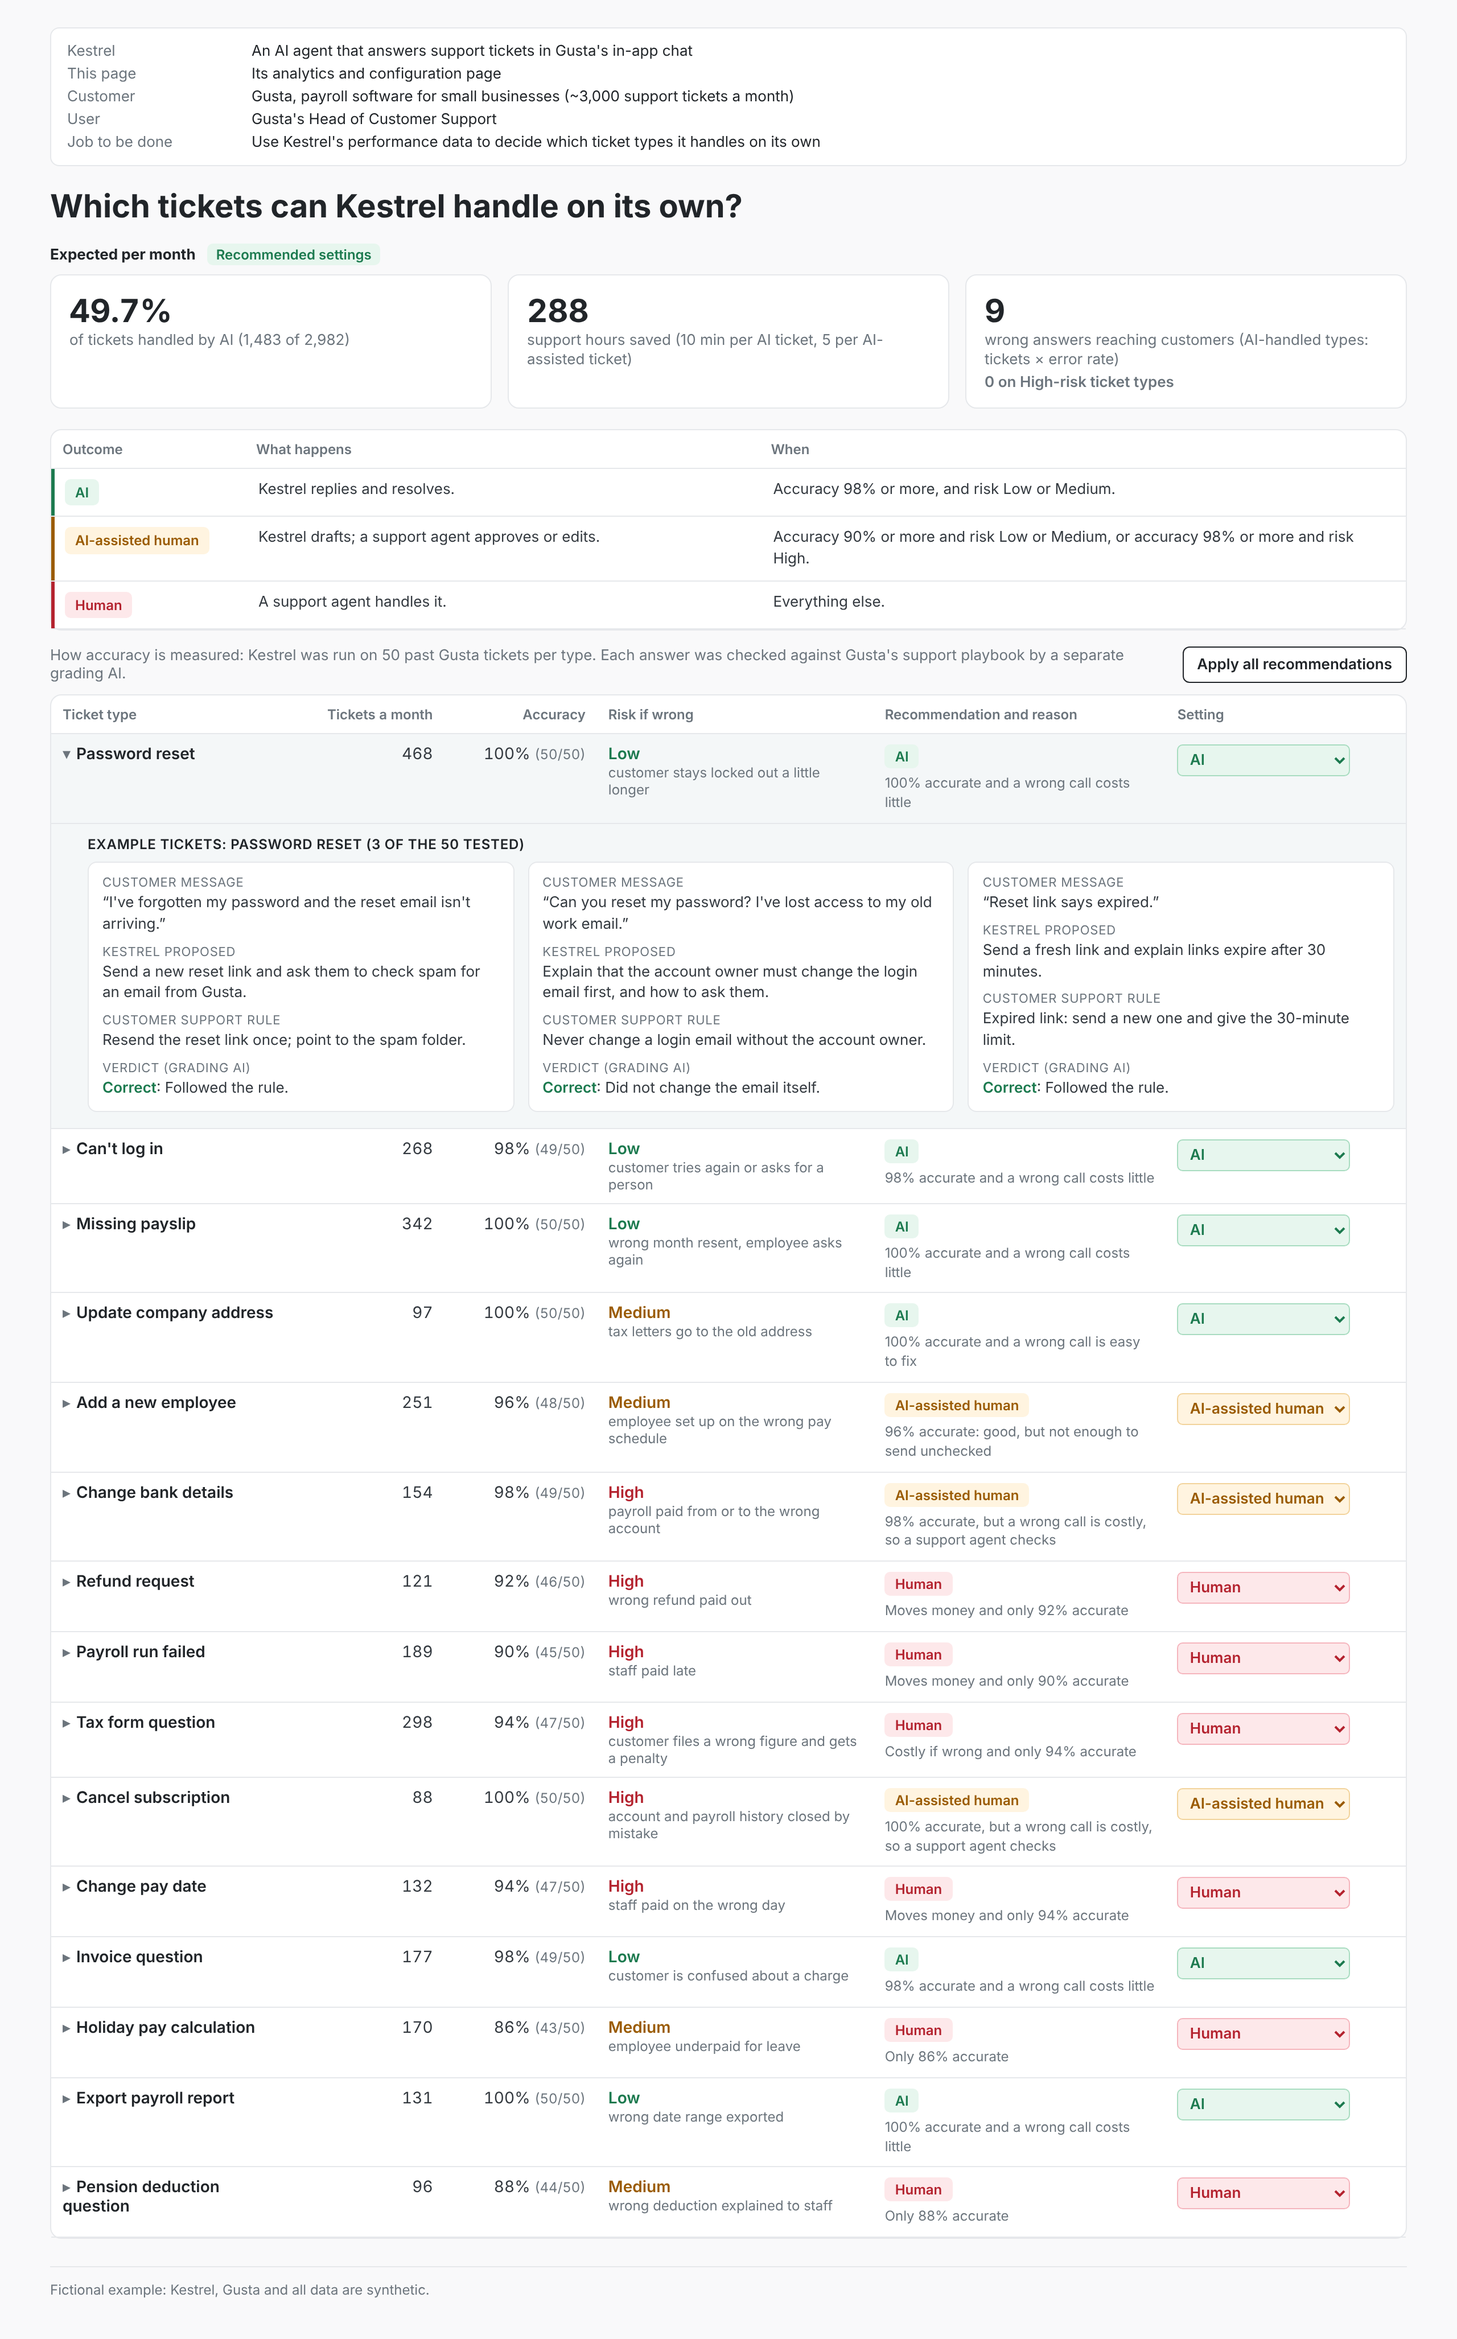
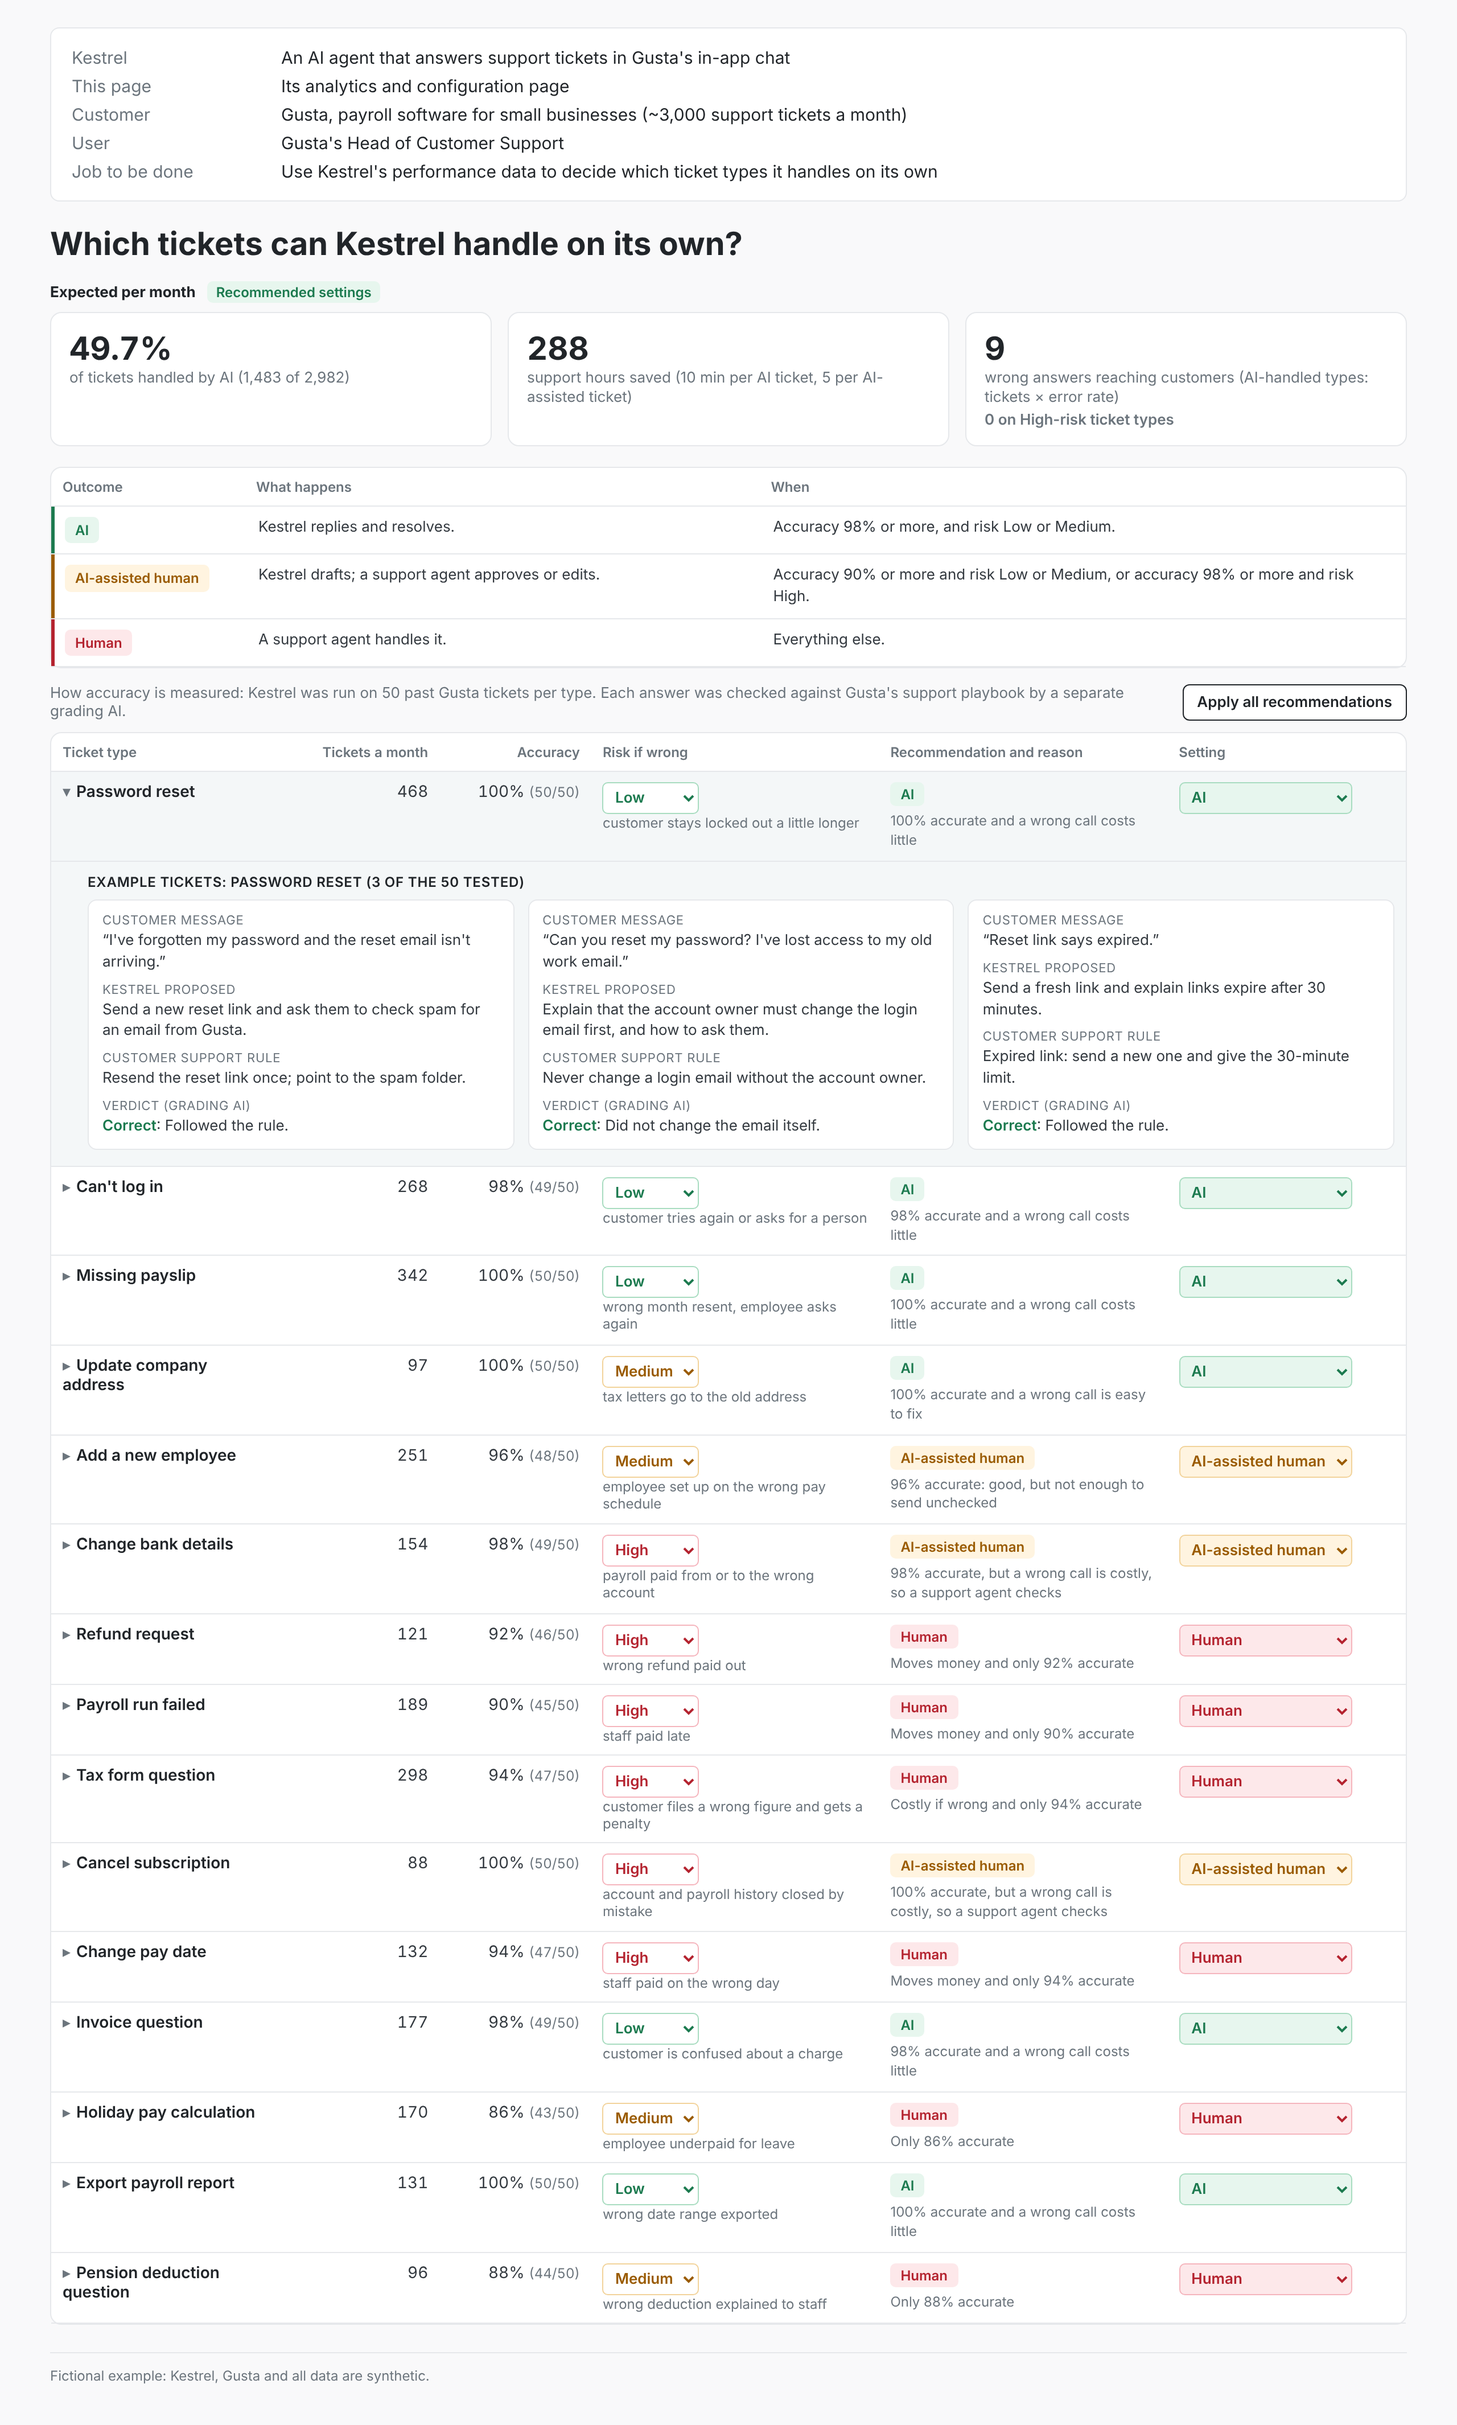
Adjustable risk per ticket type; larger header box
Claude-Session: https://claude.ai/code/session_016JoguXTxkWcj5knaYbAtMZ

diff --git a/examples/kestrel/run/build/mvp.html b/examples/kestrel/run/build/mvp.html
@@ -7,7 +7,7 @@
 *{box-sizing:border-box}
 body{margin:0;background:var(--bg);color:var(--text);font-family:Inter,Arial,sans-serif;font-size:14px}
 main{max-width:1240px;margin:0 auto;padding:24px 24px 36px}
-.header{display:grid;grid-template-columns:150px 1fr;gap:4px 12px;font-size:13px;margin:0 0 18px;padding:12px 14px;background:#fff;border:1px solid var(--line);border-radius:8px}
+.header{display:grid;grid-template-columns:170px 1fr;gap:6px 14px;font-size:15px;margin:0 0 20px;padding:16px 18px;background:#fff;border:1px solid var(--line);border-radius:8px}
 .header dt{color:var(--mute)}.header dd{margin:0;color:var(--head)}
 h1{font-size:28px;color:var(--head);margin:0 0 16px}
 .dash-head{display:flex;align-items:center;gap:10px;margin:0 0 8px;font-size:13px;color:var(--mute)}
@@ -42,6 +42,8 @@ tr.row{cursor:pointer}tr.row:hover{background:#f6f8f9}tr.row.open{background:var
 select{font:inherit;font-size:13px;font-weight:600;border:1px solid var(--line);border-radius:5px;padding:4px 6px;background:#fff;color:var(--head);cursor:pointer}
 select.s-resolve{background:var(--ai-bg);color:var(--ai);border-color:#a8dcc0}select.s-draft{background:var(--mix-bg);color:var(--mix);border-color:#f2d39b}select.s-human{background:var(--hum-bg);color:var(--hum);border-color:#f5b5bd}
 select option{background:#fff;color:var(--head);font-weight:400}
+select.rk-Low{color:var(--ai);border-color:#a8dcc0}select.rk-Medium{color:var(--mix);border-color:#f2d39b}select.rk-High{color:var(--hum);border-color:#f5b5bd}
+.adjusted{font-size:12px;color:var(--mix);font-weight:600;margin-top:5px}
 .tag{display:inline-block;font-size:11px;font-weight:600;padding:2px 6px;border-radius:4px;background:#eef0f2;color:var(--mute);margin-top:4px}
 .warn{font-size:12px;color:var(--hum);margin-top:4px}
 tr.detail td{background:var(--open);padding:2px 10px 14px 32px}
@@ -91,7 +93,8 @@ if (typeof module !== 'undefined') module.exports = {accuracy, recommend, summar
 
 <script>
 const LABEL = {resolve: 'AI', draft: 'AI-assisted human', human: 'Human'};
-let D, settings = [], open = new Set([0]);
+let D, settings = [], risks = [], open = new Set([0]);
+const eff = () => D.types.map((t, i) => Object.assign({}, t, {risk: risks[i]}));
 const fmt = v => Math.round(v).toLocaleString('en-GB');
 function staticParts(){
   const K = D.product, G = D.customer, n = D.test_tickets_per_type;
@@ -111,8 +114,8 @@ function staticParts(){
   document.getElementById('footer').textContent = `Fictional example: ${K}, ${G} and all data are synthetic.`;
 }
 function render(){
-  const n = D.test_tickets_per_type, s = summary(D, settings), K = D.product;
-  const recSet = D.types.map(t => recommend(t, n)), r = summary(D, recSet), overrides = settings.filter((m, i) => m !== recSet[i]).length;
+  const n = D.test_tickets_per_type, E = eff(), DE = Object.assign({}, D, {types: E}), s = summary(DE, settings), K = D.product;
+  const recSet = E.map(t => recommend(t, n)), r = summary(DE, recSet), overrides = settings.filter((m, i) => m !== recSet[i]).length;
   const delta = (now, base, unit, goodUp) => { const d = now - base; if (Math.abs(d) < 0.05) return '';
     const good = goodUp ? d > 0 : d < 0; return `<div class="delta ${good ? 'd-up' : 'd-bad'}">${d > 0 ? '+' : '−'}${unit(Math.abs(d))} vs recommended</div>`; };
   document.getElementById('dashHead').innerHTML = `<b>Expected per month</b><span id="state" class="state ${overrides ? 'state-over">' + overrides + (overrides === 1 ? ' override' : ' overrides') : 'state-rec">Recommended settings'}</span>`;
@@ -121,16 +124,16 @@ function render(){
     <div class="card"><b id="sumHours">${fmt(s.hours)}</b><span>support hours saved (${D.minutes_ai} min per AI ticket, ${D.minutes_assisted} per AI-assisted ticket)</span>${delta(s.hours, r.hours, v => fmt(v) + ' hours', true)}</div>
     <div class="card"><b id="sumWrong">${fmt(s.wrong)}</b><span>wrong answers reaching customers (AI-handled types: tickets × error rate)</span>
       <span id="sumHigh" class="hi ${s.wrongHigh >= 0.5 ? 'hi-bad">' + fmt(s.wrongHigh) : 'hi-ok">0'} on High-risk ticket types</span>${delta(s.wrong, r.wrong, v => fmt(v), false)}</div>`;
-  const rows = D.types.map((t, i) => {
-    const rec = recommend(t, n), set = settings[i], isOpen = open.has(i), p = Math.round(accuracy(t, n) * 100);
+  const rows = E.map((t, i) => {
+    const rec = recommend(t, n), set = settings[i], isOpen = open.has(i), p = Math.round(accuracy(t, n) * 100), adj = t.risk !== D.types[i].risk;
     const over = set !== rec ? `<div><span class="tag">Overridden</span></div>` : '';
     const warn = aboveRecommended(t, n, set) ? `<div class="warn">Above recommended: ${p}% accurate on a ${t.risk}-risk type</div>` : '';
     const main = `<tr class="row${isOpen ? ' open' : ''}" data-i="${i}" onclick="toggle(${i})">
       <td><span class="chev">${isOpen ? '▾' : '▸'}</span><span class="name">${t.name}</span></td>
       <td class="n">${fmt(t.tickets)}</td>
       <td class="n">${p}% <span class="sub">(${t.correct}/${n})</span></td>
-      <td><span class="risk risk-${t.risk}">${t.risk}</span><div class="sub">${t.risk_example.replace(/^\w+: /, '')}</div></td>
-      <td><span class="chip c-${rec}">${LABEL[rec]}</span><div class="reason">${t.reason}</div></td>
+      <td onclick="event.stopPropagation()"><select class="rk-${t.risk}" data-risk="${i}" onchange="setRisk(${i}, this.value)">${['Low', 'Medium', 'High'].map(v => `<option${v === t.risk ? ' selected' : ''}>${v}</option>`).join('')}</select>${adj ? '' : `<div class="sub">${t.risk_example.replace(/^\w+: /, '')}</div>`}</td>
+      <td><span class="chip c-${rec}">${LABEL[rec]}</span>${adj ? '<div class="adjusted">Adjusted by user</div>' : `<div class="reason">${t.reason}</div>`}</td>
       <td onclick="event.stopPropagation()"><select class="s-${set}" data-i="${i}" onchange="setMode(${i}, this.value)">${['resolve', 'draft', 'human'].map(m => `<option value="${m}"${m === set ? ' selected' : ''}>${LABEL[m]}</option>`).join('')}</select>${over}${warn}</td>
 </tr>`;
     const det = isOpen ? `<tr class="detail"><td colspan="6"><div class="exhead">Example tickets: ${t.name} (3 of the ${n} tested)</div><div class="exgrid">${t.examples.map(e => `<div class="exbox">
@@ -143,8 +146,11 @@ function render(){
 }
 function toggle(i){ open.has(i) ? open.delete(i) : open.add(i); render(); }
 function setMode(i, m){ settings[i] = m; render(); }
-function applyAll(){ settings = D.types.map(t => recommend(t, D.test_tickets_per_type)); render(); }
-fetch('../data/ticket_types.json').then(r => r.json()).then(d => { D = d; staticParts(); applyAll(); document.body.dataset.ready = '1'; })
+// changing risk re-runs the recommendation; the setting follows it only if it was still on the old recommendation
+function setRisk(i, v){ const n = D.test_tickets_per_type, before = recommend(eff()[i], n); risks[i] = v;
+  if (settings[i] === before) settings[i] = recommend(eff()[i], n); render(); }
+function applyAll(){ settings = eff().map(t => recommend(t, D.test_tickets_per_type)); render(); }
+fetch('../data/ticket_types.json').then(r => r.json()).then(d => { D = d; risks = D.types.map(t => t.risk); staticParts(); applyAll(); document.body.dataset.ready = '1'; })
   .catch(() => { document.querySelector('main').insertAdjacentHTML('afterbegin', '<p class="measure"><b>Couldn\'t load the data.</b> Open this page through a web server, not by double-clicking the file.</p>'); });
 </script>
 </body></html>

diff --git a/examples/kestrel/run/build/check_mvp.js b/examples/kestrel/run/build/check_mvp.js
@@ -19,7 +19,7 @@ const srv = http.createServer((q, r) => { const f = path.join(root, decodeURICom
   const det = await txt('tr.detail');
   t('each expanded row has an Example tickets heading', det.includes('Example tickets: Password reset (3 of the 50 tested)'));
   t('examples use the four labels', ['Customer message', 'Kestrel proposed', 'Customer support rule', 'Verdict (grading AI)'].every(l => det.includes(l)));
-  await p.click('tr.row:has-text("Refund request")');
+  await p.click('tr.row:has-text("Refund request") .name');
   t('clicking a row expands it, with a Wrong example', (await p.$$('tr.detail')).length === 2 && (await txt('#types')).includes('February was still due'));
   await p.selectOption('select[data-i="6"]', 'resolve');
   const row = await txt('tr.row[data-i="6"]');
@@ -30,6 +30,15 @@ const srv = http.createServer((q, r) => { const f = path.join(root, decodeURICom
   const row0 = await txt('tr.row[data-i="0"]');
   t('lowering autonomy: Overridden, no warning', row0.includes('Overridden') && !row0.includes('Above recommended'));
   await p.click('#applyAll');
+  // risk: Password reset Low -> High moves it to AI-assisted human; the setting follows because it was on the recommendation
+  await p.selectOption('select[data-risk="0"]', 'High');
+  let r0 = await txt('tr.row[data-i="0"]');
+  t('risk adjusted: "Adjusted by user", recommendation and setting follow', r0.includes('Adjusted by user') && r0.includes('AI-assisted human') && (await p.inputValue('select[data-i="0"]')) === 'draft' && !r0.includes('Overridden'));
+  // an overridden setting does not follow a risk change
+  await p.selectOption('select[data-i="1"]', 'human'); await p.selectOption('select[data-risk="1"]', 'High');
+  t('overridden setting stays when risk changes', (await p.inputValue('select[data-i="1"]')) === 'human');
+  await p.selectOption('select[data-risk="0"]', 'Low'); await p.selectOption('select[data-risk="1"]', 'Low'); await p.click('#applyAll');
+  t('back to the original: 49.7%', (await txt('#sumShare')) === '49.7%' && !(await txt('#types')).includes('Adjusted by user'));
   t('Apply all recommendations resets everything', (await txt('#sumShare')) === '49.7%' && !(await txt('#types')).includes('Overridden'));
   t('rules are one table with 3 coloured rows', (await p.$$('#rules tr.r-resolve, #rules tr.r-draft, #rules tr.r-human')).length === 3 && (await p.$$('#rules .chip')).length === 3);
   t('setting dropdown is coloured by its value', (await p.getAttribute('select[data-i="0"]', 'class')) === 's-resolve' && (await p.getAttribute('select[data-i="6"]', 'class')) === 's-human');

diff --git a/examples/kestrel/run/build/capture_screens.js b/examples/kestrel/run/build/capture_screens.js
@@ -8,7 +8,7 @@ const srv = http.createServer((q, r) => { const f = path.join(root, decodeURICom
   const p = await b.newPage({ viewport: { width: 1280, height: 900 }, deviceScaleFactor: scale });
   await p.goto(`http://localhost:${srv.address().port}/build/mvp.html`); await p.waitForSelector('body[data-ready="1"]');
   await p.screenshot({ path: path.join(root, 'design', '1-overview.png'), fullPage: true });
-  await p.click('tr.row:has-text("Refund request")'); await p.selectOption('select[data-i="6"]', 'resolve');
+  await p.click('tr.row:has-text("Refund request") .name'); await p.selectOption('select[data-i="6"]', 'resolve');
   await p.screenshot({ path: path.join(root, 'design', '2-override.png'), fullPage: true });
   console.log('saved 2 screens'); await b.close(); srv.close();
 })();

diff --git a/index.html b/index.html
@@ -11,7 +11,7 @@ h1{color:#212529;margin:0 0 10px;font-size:34px;line-height:1.2}p{line-height:1.
 a.btn{display:inline-block;background:#0f766e;color:#fff;text-decoration:none;padding:11px 16px;border-radius:6px;font-weight:600;margin:0 10px 10px 0}
 a.sec{background:#fff;color:#343a40;border:1px solid #343a40}
 .demo{border:1px solid #e6e8eb;border-radius:10px;overflow:hidden;background:#fff;box-shadow:0 8px 28px rgba(0,0,0,.06)}
-iframe{display:block;width:100%;height:2250px;border:0}
+iframe{display:block;width:100%;height:2600px;border:0}
 @media (max-width:700px){iframe{height:700px}h1{font-size:26px}}
 </style></head><body><main>
 <div class="intro">

diff --git a/README.md b/README.md
@@ -20,7 +20,7 @@ Kestrel's analytics and configuration page (not the agent itself), for Gusta's H
 | Three numbers | **49.7%** of tickets handled by AI (1,483 of 2,982 a month) · **288** support hours saved a month (10 minutes per AI ticket, 5 per AI-assisted ticket) · **9** wrong answers reaching customers a month, **0** on High-risk ticket types |
 | Decision rules | **AI** (98%+ accurate, risk Low or Medium) · **AI-assisted human** (90%+ and risk Low or Medium, or 98%+ and risk High) · **Human** (everything else) |
 | The table | 15 ticket types in in-app chat: tickets a month, accuracy, risk if wrong, Kestrel's recommendation with its reason, and a setting Gusta controls |
-| Overrides | Changing a setting shows "Overridden", warns when it gives Kestrel more autonomy than recommended, and updates the three numbers live, with the change against the recommendation |
+| Overrides | Risk and setting are both adjustable. Changing a risk re-runs the recommendation ("Adjusted by user"); changing a setting shows "Overridden" and warns when it gives Kestrel more autonomy than recommended. The three numbers update live, with the change against the recommendation |
 | Examples | 3 tickets under each row: customer message, what Kestrel proposed, the customer support rule, and the grading AI's verdict |
 
 Accuracy comes from running Kestrel on 50 past tickets per type, each checked against Gusta's support playbook by a separate grading AI. Every number on the page is calculated from [the data](examples/kestrel/run/data/ticket_types.json) and checked by [tests](examples/kestrel/run/build/test_mvp.js) on every push.
